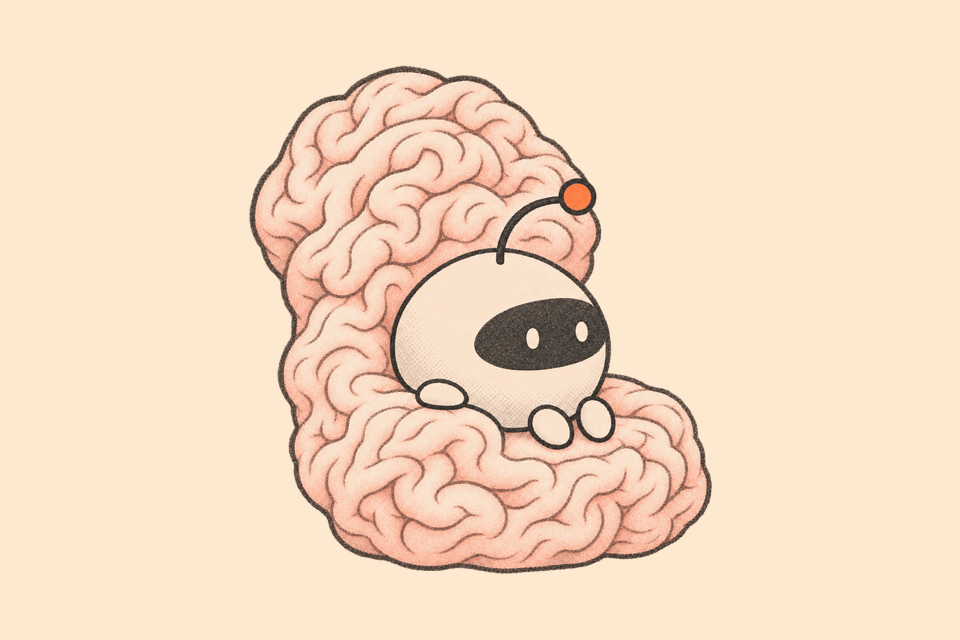
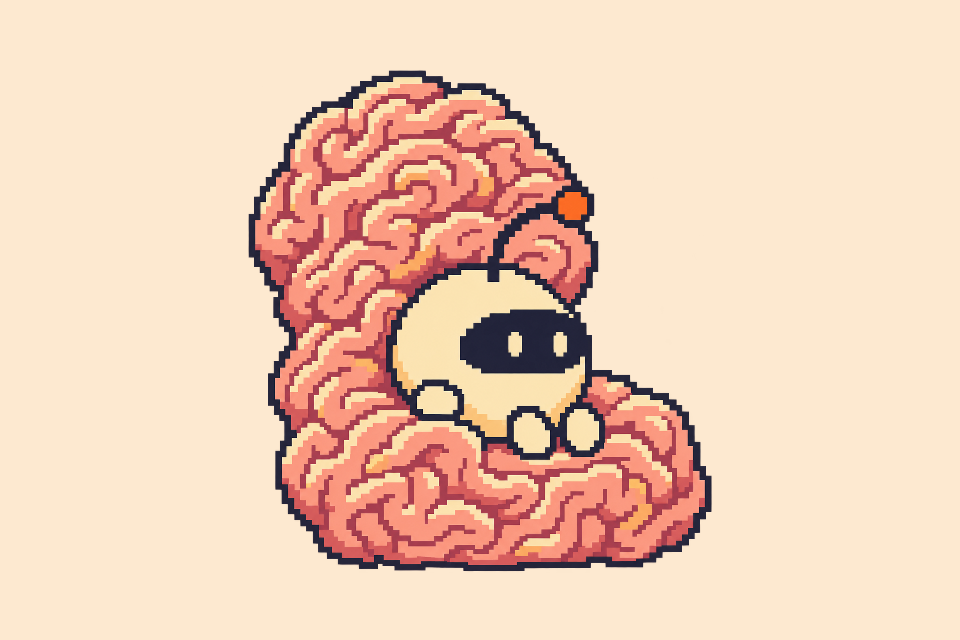
Illustrate Architectural Memory with pixel art

Changed region(s): [[0.25, 0.0938, 0.75, 0.9062]]

diff --git a/content/writing/architectural-memory/index.md b/content/writing/architectural-memory/index.md
@@ -64,7 +64,7 @@ For constraints we can check mechanically in our JavaScript and TypeScript sourc
 
 We keep one rule per file. That makes each check easy to review and lets us add or remove rules independently.
 
-![Seen from behind, a robot checks a foldout map at an unmarked fork](./guardrails.png)
+![A robot checks a foldout map whose route matches the signpost’s orange right arrow](./guardrails.png)
 
 ## Where the Rules Live
 
